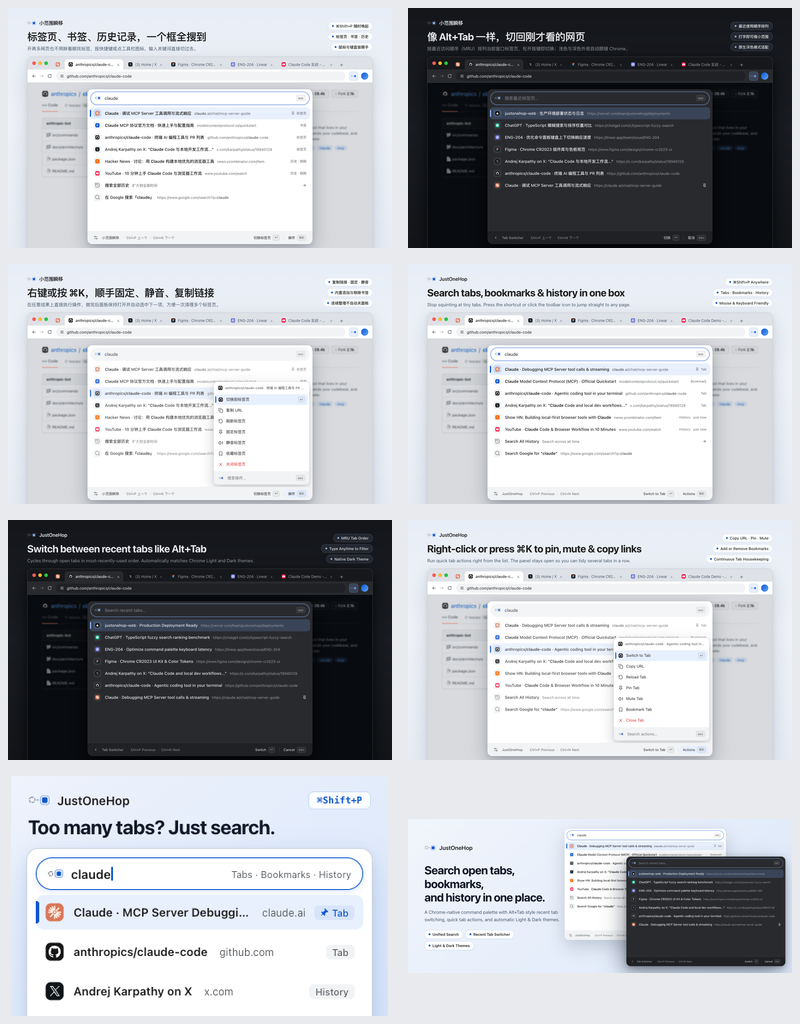
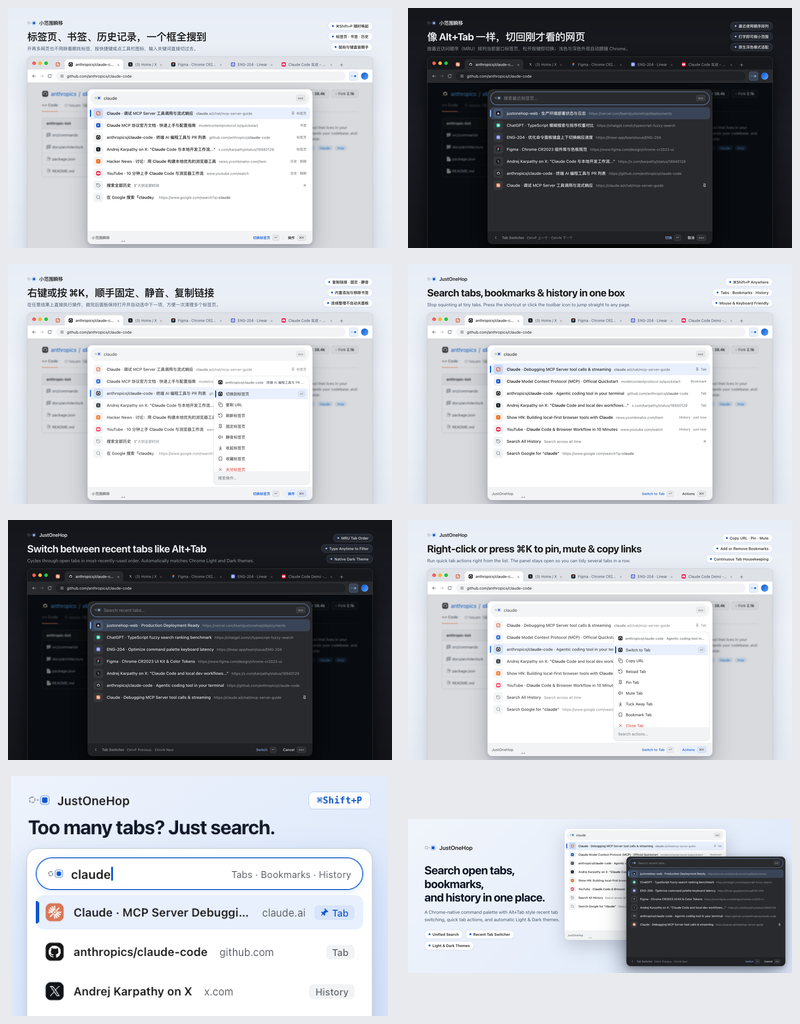
release: freeze and prepare JustOneHop 1.0.0 candidate

diff --git a/docs/ACCEPTANCE.md b/docs/ACCEPTANCE.md
@@ -1,4 +1,4 @@
-# JustOneHop · 小范围瞬移 0.2.1 验收基准与能力状态
+# JustOneHop · 小范围瞬移 1.0.0 验收基准与能力状态
 
 本文档定义小范围瞬移（JustOneHop）当前版本的系统级验收基准、能力验证矩阵与已知受限边界。
 
@@ -9,31 +9,31 @@
 
 ## 1. 核心能力验收状态矩阵
 
-发布版本：`0.2.1`（2026-10-22；GitHub 发布状态以 Release 页面为准） | 扩展 ID：`mbofggnjaoneioopfbpheapgphmkclbo`
+候选版本：`1.0.0`（2026-10-24 功能冻结；未提交商店） | 扩展 ID：`mbofggnjaoneioopfbpheapgphmkclbo`
 
-**0.2.1 候选提交与本地发布包已通过自动化验收，尚未发布**：修复已通过 PR #1 合入 `main`（`05e04db`）。0.2.1 的干净候选提交 `e61d90e` 已通过版本一致性、类型检查、完整单元测试与全量 E2E；Chrome 156.0.8078.4、Vimium 2.4.2、最多两个 worker 下无失败、跳过、未执行或重试，源码与构建产物在验证期间保持一致，完整 E2E 达到五分钟目标。通过范围包含双承载定位、Vimium 兼容与后台生命周期压力。本地 ZIP 直接取自该提交的已验证产物，完整性、版本、源映射剔除及逐文件一致性检查通过；提交与 ZIP 校验和记录在发布说明及 PR #2。下表仍保留日常实机等未覆盖边界。正式发布仍须确定日期、对齐最终 tag 与附件；已发布 `v0.2.0`（`34f57c2`）不包含修复，不能追溯标记通过，不移动旧 tag 或替换旧附件，商店状态仍待后台确认。
+**1.0.0 功能已冻结，发布验证待完成。** 当前候选包含原有统一搜索、标签切换与分组，以及拼音搜索、本地补全、继续搜索、自定义图标、设置与导航改进。下表保留各能力已有证据及实机边界；历史 0.2.1 的全量结果不能替代当前候选的发布验证。正式发布与商店提交尚未执行，历史商店状态未在后台重新确认。
 
 | 功能模块 | 关键验收断言与边界契约 | 验证手段 | 当前验收状态 |
 | :--- | :--- | :--- | :---: |
 | **主搜索 (Omni Palette)** | • 统一检索标签页、书签、历史记录、系统命令、直达网址与 Google 搜索<br>• 字面精确匹配优先于错拼与别名；命令支持中英文别名匹配<br>• 默认回车执行原地打开，次要操作支持新标签页打开<br>• 原生文本拖选保护：拖选结果文字松开绝对不触发点击主动作或写入学习<br>• 搜索结果项展示当前标签页徽标、快捷键提示与类型图标 | 单元测试 + 浏览器自动化 E2E + 真实 Chrome 实测 | **已验证 (Verified)** |
-| **中文拼音检索（0.2.1 后续工作树）** | • 中文全拼、连续首字母、混合 AND 分词与原文高亮<br>• 字面匹配优先，学习不跨级，危险意图保护保留<br>• Tab Switcher 字面优先且同级保留 MRU；设置与帮助复用匹配<br>• 历史保留原生字面查询，拼音补充限定当前范围最近 1000 页，结果最多 100 项并提示上限 | 匹配、排序、高亮、切换器与历史后台单测；主搜索 UI 和真实历史召回定向浏览器用例 | **部分验证**：后续工作树的定向逻辑单测、主搜索鼠键与高亮 UI、真实 Chrome 中文标题历史召回均通过；不追溯至发布候选，超过扫描上限的旧历史拼音召回、多音字所有读法及日常 Chrome 不在通过范围 |
+| **中文拼音检索（1.0.0）** | • 中文全拼、连续首字母、混合 AND 分词与原文高亮<br>• 字面匹配优先，学习不跨级，危险意图保护保留<br>• Tab Switcher 字面优先且同级保留 MRU；设置与帮助复用匹配<br>• 历史保留原生字面查询，拼音补充限定当前范围最近 1000 页，结果最多 100 项并提示上限 | 匹配、排序、高亮、切换器与历史后台单测；主搜索 UI 和真实历史召回定向浏览器用例 | **部分验证**：1.0.0 开发阶段的定向逻辑单测、主搜索鼠键与高亮 UI、真实 Chrome 中文标题历史召回均通过；既往定向结果不替代 1.0.0 全量验证，超过扫描上限的旧历史拼音召回、多音字所有读法及日常 Chrome 不在通过范围 |
 | **本地排序学习** | • 本地使用频次加权排序，容量上限 2000 条<br>• 遵循 14 天半衰期衰减与 90 天未用淘汰规则<br>• 学习权重仅在同相关性等级内微调，不跨类别跃迁<br>• ActionMenu 提供显式「忘记 / Forget」，支持单项清除学习历史 | 单元测试 + 自动化回归 | **已验证 (Verified)** |
-| **本地查询补全（0.2.1 后续工作树）** | • 主搜索按成功查询提供一个浅色前缀提示，接受前不改变查询、结果或 Enter 主动作<br>• Tab／右方向键／Ctrl+E 与底栏鼠标入口等价；Shift+Tab 保留导航<br>• 编辑选区、删除与 IME 组合保护；隐身不提示、不记录；重置清除共用历史<br>• 成功网址与 Google 搜索仅记录补全查询，不提升结果排名 | 查询、导航与存储单测 + 双承载 UI 自动化 + 真实学习／重置与导航定向集成 | **部分验证**：所列用例在后续工作树分批通过，含深浅色窄屏；不追溯至发布候选。实体中文输入法、读屏及日常 Chrome 待实机验收 |
-| **短期继续搜索（0.2.1 后续工作树）** | • 同窗口最近一次符合条件的页面搜索，在 10 分钟内通过空输入／匹配前缀 hint 恢复<br>• 接受前保留首页，复用补全键与底栏入口；删除抑制保留<br>• 会话存储隔离窗口，隐身与非页面动作不记录，忘记／重置清除 | 状态与存储单测 + 双承载 UI、时钟过期与真实学习／重新打开／重置集成 | **部分验证**：所列定向用例通过；浏览器重启清除由会话存储语义与空存储单测覆盖，未执行真实重启或日常 Chrome 实测 |
+| **本地查询补全（1.0.0）** | • 主搜索按成功查询提供一个浅色前缀提示，接受前不改变查询、结果或 Enter 主动作<br>• Tab／右方向键／Ctrl+E 与底栏鼠标入口等价；Shift+Tab 保留导航<br>• 编辑选区、删除与 IME 组合保护；隐身不提示、不记录；重置清除共用历史<br>• 成功网址与 Google 搜索仅记录补全查询，不提升结果排名 | 查询、导航与存储单测 + 双承载 UI 自动化 + 真实学习／重置与导航定向集成 | **部分验证**：所列用例在 1.0.0 开发阶段分批通过，含深浅色窄屏；既往定向结果不替代 1.0.0 全量验证。实体中文输入法、读屏及日常 Chrome 待实机验收 |
+| **短期继续搜索（1.0.0）** | • 同窗口最近一次符合条件的页面搜索，在 10 分钟内通过空输入／匹配前缀 hint 恢复<br>• 接受前保留首页，复用补全键与底栏入口；删除抑制保留<br>• 会话存储隔离窗口，隐身与非页面动作不记录，忘记／重置清除 | 状态与存储单测 + 双承载 UI、时钟过期与真实学习／重新打开／重置集成 | **部分验证**：所列定向用例通过；浏览器重启清除由会话存储语义与空存储单测覆盖，未执行真实重启或日常 Chrome 实测 |
 | **Tab Switcher (MRU 标签切换)** | • 修饰键按住导航、松开直接确认切页；失焦或 Esc 安全取消<br>• 150ms 延时展示浮层，快速按键切页无闪烁感知<br>• 激活搜索胶囊后平滑转为普通列表模式，取消松键自动确认语义<br>• 鼠标悬停仅展示可点击外框，绝对不改变松键确认目标 | 单元测试 + 隔离 Chrome (CDP 键盘事件) | **已验证 (Verified)** |
 | **标签组管理 (Tab Groups)** | • 准确识别当前窗口原生标签组，展示组名、原生颜色徽标与成员数量<br>• 支持展开/折叠、改名（就地单行编辑，保存/取消无损恢复原列表滚动位置）<br>• **安全解散 (Ungroup)**：移除分组容器，完整保留组内所有标签页<br>• **关闭整组 (Close Group)**：必须经过二次确认层，实时核对成员变化，严格保护固定标签页<br>• 组内成员详情二级页：支持页内切换、移出分组与单页关闭 | 单元测试 + 浏览器自动化 E2E | **已验证 (Verified)** |
-| **自动收起 (Tucked Away)** | • 五档时长（1/12 小时、1/3/7 天）即时保存，合法旧值保留<br>• 电脑空闲或 Chrome 连续失焦 30 分钟后允许收起；返回重置等待并停止后续收起<br>• 固定组名「收起来 / Tuck Away」，按窗口复用；跨批次保持初始左右顺序、尊重组内手动重排；逐页保护、用户接管后放弃管理<br>• 找回、撤销与关闭保留页面；部分失败可重试，关闭后仍展示待移回状态<br>• 重启按完整证据恢复归属，歧义需显式确认，撤销批次仅限当前会话 | 状态机／恢复／偏好单测 + 中文窄屏鼠键 UI + 原生 alarm、分组、撤销、设置与实际重启集成 | **部分验证（自动化范围通过）**：覆盖执行前状态变化、连续批次与双窗口同名组隔离、跨批次交错顺序及后台重启保留、手动重排后新基准、用户中途接管、原生命名失败后的归属与撤销、关闭失败反馈、部分失败后的后台／浏览器重启、无干预多窗口恢复及显式恢复确认。失败由受控注入，失焦／系统空闲／到期时间使用受控信号；真实跨应用连续失焦 30 分钟、日常 Chrome 与其他扩展共存仍待实机验收。隔离环境性能采样不构成游戏帧率或资源峰值上限保证，不追溯至发布候选 |
+| **自动收起 (Tucked Away)** | • 五档时长（1/12 小时、1/3/7 天）即时保存，合法旧值保留<br>• 电脑空闲或 Chrome 连续失焦 30 分钟后允许收起；返回重置等待并停止后续收起<br>• 固定组名「收起来 / Tuck Away」，按窗口复用；跨批次保持初始左右顺序、尊重组内手动重排；逐页保护、用户接管后放弃管理<br>• 找回、撤销与关闭保留页面；部分失败可重试，关闭后仍展示待移回状态<br>• 重启按完整证据恢复归属，歧义需显式确认，撤销批次仅限当前会话 | 状态机／恢复／偏好单测 + 中文窄屏鼠键 UI + 原生 alarm、分组、撤销、设置与实际重启集成 | **部分验证（自动化范围通过）**：覆盖执行前状态变化、连续批次与双窗口同名组隔离、跨批次交错顺序及后台重启保留、手动重排后新基准、用户中途接管、原生命名失败后的归属与撤销、关闭失败反馈、部分失败后的后台／浏览器重启、无干预多窗口恢复及显式恢复确认。失败由受控注入，失焦／系统空闲／到期时间使用受控信号；真实跨应用连续失焦 30 分钟、日常 Chrome 与其他扩展共存仍待实机验收。隔离环境性能采样不构成游戏帧率或资源峰值上限保证，既往定向结果不替代 1.0.0 全量验证 |
 | **页面存储管理 (Page Storage)** | • 只读查看当前站点的 Local Storage、Session Storage 与 Cookies<br>• **权限安全**：Cookie 逐站显式请求授权（`optional_host_permissions`），绝不申请全站权限<br>• 单击项仅更新右侧只读预览；鼠标悬停不改变选中与预览<br>• 回车或底栏「复制值」直接写入剪贴板；双击或 ActionMenu 查看详情 | 单元测试 + 本地存储站点验收 + 浏览器自动化 | **已验证 (Verified)** |
-| **跨视图视觉系统（0.2.1 后续工作树）** | • 同角色字体、字重、行高、间距、圆角、边框、焦点、表面、阴影与交互状态共用语义 token；静态检查约束视觉字面量及 token 引用；搜索／列表／底栏保留紧凑组件尺寸，布局及图形绘制参数按角色区分<br>• 授权页与任务页采用共享视觉角色；阅读区、菜单输入和链接具有可见键盘焦点，禁用控件不展示可执行悬停反馈<br>• 普通二级页统一顶部旋转徽章返回与底栏 pet；列表提示列表导航，详情／表单提示控件导航；独立帮助根窗口与 Tab Switcher 保留专用入口；帮助链接支持 Tab／Enter | 全部视图源码走查；主搜索／菜单、历史、设置及子页、帮助、恢复、存储／Cookies、授权、标签组编辑／确认、书签确认和两种切换器承载的定向浏览器交互与截图检查 | **部分验证**：页面家族代表路径通过，含深浅色和窄屏；普通二级页统一导航已通过存储列表／详情、标签组、历史、帮助及恢复核对定向 UI，含查询与焦点恢复、pet 槽跨页对齐、390px 操作可达与新增 Tab 路径；真实扩展已验证隔离浮层设置导航、闭合浮层徽章逐层返回、存储与标签组鼠键路径，以及跨页尺寸和底栏槽位；其余页面路径使用模拟 Chrome API；非所有页面×语言×主题×尺寸的穷举组合，日常 Chrome、读屏及系统原生授权弹窗外观未验，不追溯至发布候选 |
-| **设置分类与持续搜索（0.2.1 后续工作树）** | • 顶部跨分类搜索，外观／快捷键／实验室／帮助侧栏；外观包含语言，帮助直达正文，窄屏使用分类选择器<br>• 设置子页保留框架；顶部旋转徽章按最深活动层返回，底栏统一显示「设置 / Settings」；首页底栏标题点击进入设置；首页与设置的键盘提示跟随小动物完整露出／潜伏，点击或键盘激活切换小动物与提示的显示／隐藏，悬停偷看不展示文案，首页保留列表导航、设置保留控件导航，失焦／后台与减少动态效果时暂停动效；搜索清空恢复子页草稿，返回恢复查询选区与焦点，分类不累积历史<br>• 保持 750 × 516 上限、单色图标与柔蓝选中态；设置及子页与存储预览／详情共用视觉 token；正文动作、字段、代码排版和焦点态按角色统一；自动收起按控件、状态、规则分层，语言、主题、自动收起时长即时保存 | 分类检索与双语单测；双承载 UI、深浅色／390px、鼠键导航、草稿／失败恢复与收起设置；真实扩展偏好／图标同步及设置布局集成 | **部分验证**：分类、检索与草稿恢复、顶部逐层返回、统一底栏标题、首页文字入口、中英文窄屏提示及双承载鼠键路径在后续工作树分批通过；动效及退隐计时的失焦暂停以双承载 UI 层受控焦点信号和时钟验证，覆盖减少动态效果；菜单打开时 pet 不可聚焦、提示隐藏。真实扩展已验证设置键盘链、闭合浮层返回、指南剪贴板及 Chrome 快捷键页面跳转／复用。日常 Chrome、读屏、系统后台挂起与跨标签页任务接续未复验，不追溯至发布候选 |
-| **自定义搜索图标（0.2.1 后续工作树）** | • 单个组合 Emoji 或本地 PNG／JPEG／WebP，等比缩小为静态图标，保留颜色<br>• 预览后显式保存、放弃草稿与恢复默认；本机持久化，跨扩展页面同步<br>• 所有搜索入口共用外观，保持各入口的聚焦、选区、进入搜索或返回语义 | 数据校验、偏好与双语检索单测；编辑器鼠键／失败恢复／390px 窄屏 UI；真实扩展持久化、受限网页浮层与 Tab Switcher 集成 | **部分验证**：所列定向用例分批通过，不追溯至发布候选；独立扩展页面重新加载已验证；设置徽章逐层返回及草稿恢复已通过双承载 UI 与真实闭合浮层返回用例，真实浏览器重启、系统文件选择器、实体 Emoji 输入面板与日常 Chrome 待实机验收 |
-| **任务／详情页顶部（0.2.1 后续工作树）** | • 独立 Ctrl+Tab 指南、收起恢复核对与存储详情使用顶部返回，底栏不重复导航；设置内图标编辑、指南与帮助沿用设置搜索和顶部徽章返回<br>• 标题、预览与字段归正文，普通内容不套搜索胶囊<br>• 返回遵守最深层级并恢复父级上下文，Tab 包含恢复候选列表，正文滚动时顶部与底栏可见 | 定向 UI 自动化：图标编辑深浅色／窄屏／失败重试，指南与恢复菜单逐级返回及选区，嵌入浮层存储详情，Backspace 编辑保护 | **部分验证**：任务／详情布局用例在后续工作树分批通过；设置指南与恢复任务的顶部返回、菜单优先退出、Enter 防护和选区恢复已通过定向 UI，配置指南原生剪贴板与快捷键跳转已通过真实扩展用例。UI 层模拟 Chrome API；真实恢复执行、日常 Chrome 与读屏未复验。不追溯至发布候选 |
-| **操作反馈** | • 设置、复制、标签／书签／标签组操作通过底栏报告真实结果；语言切换后使用新语言确认<br>• 超过 150ms 显示执行中，成功提示约 4 秒，错误持续至关闭或后续处理<br>• 返回父视图与继续输入保留结果，旧异步请求不覆盖新操作<br>• 批量完成、跳过与部分失败报告数量；窄屏优先保留提示空间<br>• 标题与 pet 固定占位，hint 与所有操作结果共享文字槽；pet 显隐不移动反馈，反馈优先于 hint，错误不被提示覆盖 | 状态机、后台结果与国际化单测 + 隔离 Chrome 定向用例（设置成功／失败／延迟保存、主搜索及历史复制、Storage、配置指南、标签组）；双承载共享槽 UI | **部分验证**：所列路径分批通过；后续工作树的双承载 UI 已验证 pet 开关成功仅更新开关与显隐、延迟保存与失败仍提供反馈；pet 显隐保留文字槽位置，主题成功与保存失败共用文字起点和水平中线，成功到期／错误关闭后的 hint 恢复，以及 390px 操作按钮稳定可点击、指南长按钮旁反馈文字仍可见和复制完成后键盘焦点恢复。UI 层模拟存储与时钟；未穷举所有操作异常、快捷切换器失败与真实读屏播报；日常 Chrome 待实机验收 |
+| **跨视图视觉系统（1.0.0）** | • 同角色字体、字重、行高、间距、圆角、边框、焦点、表面、阴影与交互状态共用语义 token；静态检查约束视觉字面量及 token 引用；搜索／列表／底栏保留紧凑组件尺寸，布局及图形绘制参数按角色区分<br>• 授权页与任务页采用共享视觉角色；阅读区、菜单输入和链接具有可见键盘焦点，禁用控件不展示可执行悬停反馈<br>• 普通二级页统一顶部旋转徽章返回与底栏 pet；列表提示列表导航，详情／表单提示控件导航；独立帮助根窗口与 Tab Switcher 保留专用入口；帮助链接支持 Tab／Enter | 全部视图源码走查；主搜索／菜单、历史、设置及子页、帮助、恢复、存储／Cookies、授权、标签组编辑／确认、书签确认和两种切换器承载的定向浏览器交互与截图检查 | **部分验证**：页面家族代表路径通过，含深浅色和窄屏；普通二级页统一导航已通过存储列表／详情、标签组、历史、帮助及恢复核对定向 UI，含查询与焦点恢复、pet 槽跨页对齐、390px 操作可达与新增 Tab 路径；真实扩展已验证隔离浮层设置导航、闭合浮层徽章逐层返回、存储与标签组鼠键路径，以及跨页尺寸和底栏槽位；其余页面路径使用模拟 Chrome API；非所有页面×语言×主题×尺寸的穷举组合，日常 Chrome、读屏及系统原生授权弹窗外观未验，既往定向结果不替代 1.0.0 全量验证 |
+| **设置分类与持续搜索（1.0.0）** | • 顶部跨分类搜索，外观／快捷键／实验室／帮助侧栏；外观包含语言，帮助直达正文，窄屏使用分类选择器<br>• 设置子页保留框架；顶部旋转徽章按最深活动层返回，底栏统一显示「设置 / Settings」；首页底栏标题点击进入设置；首页与设置的键盘提示跟随小动物完整露出／潜伏，点击或键盘激活切换小动物与提示的显示／隐藏，悬停偷看不展示文案，首页保留列表导航、设置保留控件导航，失焦／后台与减少动态效果时暂停动效；搜索清空恢复子页草稿，返回恢复查询选区与焦点，分类不累积历史<br>• 保持 750 × 516 上限、单色图标与柔蓝选中态；设置及子页与存储预览／详情共用视觉 token；正文动作、字段、代码排版和焦点态按角色统一；自动收起按控件、状态、规则分层，语言、主题、自动收起时长即时保存 | 分类检索与双语单测；双承载 UI、深浅色／390px、鼠键导航、草稿／失败恢复与收起设置；真实扩展偏好／图标同步及设置布局集成 | **部分验证**：分类、检索与草稿恢复、顶部逐层返回、统一底栏标题、首页文字入口、中英文窄屏提示及双承载鼠键路径在 1.0.0 开发阶段分批通过；动效及退隐计时的失焦暂停以双承载 UI 层受控焦点信号和时钟验证，覆盖减少动态效果；菜单打开时 pet 不可聚焦、提示隐藏。真实扩展已验证设置键盘链、闭合浮层返回、指南剪贴板及 Chrome 快捷键页面跳转／复用。日常 Chrome、读屏、系统后台挂起与跨标签页任务接续未复验，既往定向结果不替代 1.0.0 全量验证 |
+| **自定义搜索图标（1.0.0）** | • 单个组合 Emoji 或本地 PNG／JPEG／WebP，等比缩小为静态图标，保留颜色<br>• 预览后显式保存、放弃草稿与恢复默认；本机持久化，跨扩展页面同步<br>• 所有搜索入口共用外观，保持各入口的聚焦、选区、进入搜索或返回语义 | 数据校验、偏好与双语检索单测；编辑器鼠键／失败恢复／390px 窄屏 UI；真实扩展持久化、受限网页浮层与 Tab Switcher 集成 | **部分验证**：所列定向用例分批通过，既往定向结果不替代 1.0.0 全量验证；独立扩展页面重新加载已验证；设置徽章逐层返回及草稿恢复已通过双承载 UI 与真实闭合浮层返回用例，真实浏览器重启、系统文件选择器、实体 Emoji 输入面板与日常 Chrome 待实机验收 |
+| **任务／详情页顶部（1.0.0）** | • 独立 Ctrl+Tab 指南、收起恢复核对与存储详情使用顶部返回，底栏不重复导航；设置内图标编辑、指南与帮助沿用设置搜索和顶部徽章返回<br>• 标题、预览与字段归正文，普通内容不套搜索胶囊<br>• 返回遵守最深层级并恢复父级上下文，Tab 包含恢复候选列表，正文滚动时顶部与底栏可见 | 定向 UI 自动化：图标编辑深浅色／窄屏／失败重试，指南与恢复菜单逐级返回及选区，嵌入浮层存储详情，Backspace 编辑保护 | **部分验证**：任务／详情布局用例在 1.0.0 开发阶段分批通过；设置指南与恢复任务的顶部返回、菜单优先退出、Enter 防护和选区恢复已通过定向 UI，配置指南原生剪贴板与快捷键跳转已通过真实扩展用例。UI 层模拟 Chrome API；真实恢复执行、日常 Chrome 与读屏未复验。既往定向结果不替代 1.0.0 全量验证 |
+| **操作反馈** | • 设置、复制、标签／书签／标签组操作通过底栏报告真实结果；语言切换后使用新语言确认<br>• 超过 150ms 显示执行中，成功提示约 4 秒，错误持续至关闭或后续处理<br>• 返回父视图与继续输入保留结果，旧异步请求不覆盖新操作<br>• 批量完成、跳过与部分失败报告数量；窄屏优先保留提示空间<br>• 标题与 pet 固定占位，hint 与所有操作结果共享文字槽；pet 显隐不移动反馈，反馈优先于 hint，错误不被提示覆盖 | 状态机、后台结果与国际化单测 + 隔离 Chrome 定向用例（设置成功／失败／延迟保存、主搜索及历史复制、Storage、配置指南、标签组）；双承载共享槽 UI | **部分验证**：所列路径分批通过；1.0.0 开发阶段的双承载 UI 已验证 pet 开关成功仅更新开关与显隐、延迟保存与失败仍提供反馈；pet 显隐保留文字槽位置，主题成功与保存失败共用文字起点和水平中线，成功到期／错误关闭后的 hint 恢复，以及 390px 操作按钮稳定可点击、指南长按钮旁反馈文字仍可见和复制完成后键盘焦点恢复。UI 层模拟存储与时钟；未穷举所有操作异常、快捷切换器失败与真实读屏播报；日常 Chrome 待实机验收 |
 | **双承载与定位** | • **普通网页**：Top Layer Shadow DOM + 空白沙箱 iframe，相对页面视口水平居中、偏上，隔绝宿主样式与键盘监听<br>• **Chrome 原生页**：无工具栏紧凑独立窗口，相对来源浏览器外框水平居中、偏上<br>• 统一内容上限：750 × 516 CSS 像素，适配来源视口与缩放；两承载不要求屏幕坐标重合 | 浏览器自动化 (闭合 Shadow DOM + iframe) + 原生窗口测试 | **已验证（所列范围）**：Chrome 156 横向／竖向标签栏、三档缩放、两类原生面板尺寸与定位；Vimium 2.4.2 闭合浮层键盘路径 |
 | **焦点控制与返回路由** | • 失去焦点感知：Chrome 地址栏持有焦点时提示「点击搜索框开始输入」<br>• 恢复焦点：Logo 按钮 (`SearchFocusButton`) 与无焦点状态下按 Tab 快速恢复输入框焦点<br>• `NavigationRoot` 统管 Esc；`BackLayer` 栈式调度逐级返回；返回父级完整恢复原 Query、光标与滚动位置<br>• 左边缘向右横滑手势逐级返回 (Swipe Back) | 浏览器自动化 + 手工交互实测 | **已验证 (Verified)** |
 | **跨应用保留命令面板** | • 网页浮层收到页面隐藏信号后保留搜索与设置视图，实际切走来源标签页后结束<br>• 独立窗口在 Chrome 无焦点及返回来源窗口时保留、不抢焦点；来源切换、导航或移出窗口后结束<br>• 快捷键 Tab Switcher 仍遵循失焦取消 | 生命周期单测 + 隔离 Chrome 定向用例（网页隐藏为注入信号；原生窗口验证 Esc／重复启动／Chrome 内焦点退出） | **部分验证**：自动化通过；真实跨应用、桌面与遮挡组合待实机验收 |
 | **使用帮助与配置指南** | • 内置使用帮助随包只读打包，支持正文全文搜索与关键词高亮<br>• Ctrl+Tab 配置指南展示只读配置脚本，一键复制引导用户在 Chrome 控制台显式粘贴执行 | 单元测试 + 浏览器自动化 | **已验证 (Verified)** |
-| **商店与合规发布** | • 无用户账号、无后端服务、无遥测上报<br>• 候选工作树已通过完整自动化验证；已发布 `0.2.0` 仍为旧构建，尚未提交商店<br>• 修复须以新版本对齐最终提交与发布包；历史 `0.1.0` 提审结果未重新确认 | GitHub Release 与发布验证；商店状态待后台确认 | **待发布对齐**：候选构建自动化通过，旧发布包不追溯通过 |
+| **商店与合规发布** | • 无用户账号、无后端服务、无遥测上报<br>• 1.0.0 已冻结功能，当前候选的完整自动化验证待完成；尚未提交商店<br>• 发布须对齐最终提交与已验证发布包；历史 `0.1.0` 提审结果未重新确认 | GitHub Release 与发布验证；商店状态待后台确认 | **准备中**：版本、商店资料与包的验证待完成；不追溯修改历史构建结论 |
 
 ---
 
@@ -73,8 +73,8 @@
    - 两种承载保持尺寸策略与交互一致，不要求屏幕坐标精确重合；侧栏展开时位置不同属于已接受的产品行为。固定显示器位置不属于当前验收目标。
    - 几何自动化覆盖横向／竖向标签栏及 100%、125%、80% 缩放；不同显示器与其他侧栏尺寸不能由这些用例推断通过。
 2. **浏览器自动化稳定性**：
-   - 隔离 Chrome 曾在启动持久上下文及关闭上下文阶段超过 30 秒；前者发生在用例主体开始前，后者可在主体完成后仍导致失败。当前候选提交的双 worker 全量验证已通过，未出现启动或收尾超时；历史超时根因未确定，单轮全量通过不证明长期稳定性。
-   - 后台生命周期压力场景的 Chrome 156 SIGTRAP 已通过匹配二进制与同版本源码定位到 `NetworkHandler::GetResponseBody()` 的 `CHECK(storage_partition_)`（[Chromium 156.0.8078.4](https://chromium.googlesource.com/chromium/src/+/refs/tags/156.0.8078.4/content/browser/devtools/protocol/network_handler.cc#3741)）。Playwright trace 会异步读取响应正文；压力用例现独立隔离其 DOM／网络快照，保留操作 trace、生命周期事件和脚本就绪等待。协议检查确认不再调用该响应正文接口；当前候选构建的完整套件中，该用例完成 100 次停止与成功唤醒、20 次重载，无脚本加载错误或异常断连。存储分区变空的具体时序仍未确定；这属于测试采集路径规避，完整套件通过不代表 Chrome 缺陷已修复。不得以提高超时或减少压力次数替代验证。
+   - 隔离 Chrome 曾在启动持久上下文及关闭上下文阶段超过 30 秒；前者发生在用例主体开始前，后者可在主体完成后仍导致失败。历史 0.2.1 候选提交的双 worker 全量验证已通过，未出现启动或收尾超时；历史超时根因未确定，单轮全量通过不证明长期稳定性。
+   - 后台生命周期压力场景的 Chrome 156 SIGTRAP 已通过匹配二进制与同版本源码定位到 `NetworkHandler::GetResponseBody()` 的 `CHECK(storage_partition_)`（[Chromium 156.0.8078.4](https://chromium.googlesource.com/chromium/src/+/refs/tags/156.0.8078.4/content/browser/devtools/protocol/network_handler.cc#3741)）。Playwright trace 会异步读取响应正文；压力用例现独立隔离其 DOM／网络快照，保留操作 trace、生命周期事件和脚本就绪等待。协议检查确认不再调用该响应正文接口；历史 0.2.1 候选构建的完整套件中，该用例完成 100 次停止与成功唤醒、20 次重载，无脚本加载错误或异常断连。存储分区变空的具体时序仍未确定；这属于测试采集路径规避，完整套件通过不代表 Chrome 缺陷已修复。不得以提高超时或减少压力次数替代验证。
 3. **外部删除来源标签页直接结束会话**：
    - 若用户在小范围瞬移面板处于打开状态时，通过外部快捷键或鼠标关闭了唤起该面板的来源标签页，面板会话将立即安全退出，不进行跨标签页迁移接续。
 4. **自动化测试无法完全替代 CDP 实体修饰键松开**：

diff --git a/docs/STORE-LISTING.md b/docs/STORE-LISTING.md
@@ -11,7 +11,7 @@
 | 字段 | 填写内容 | 说明 |
 | --- | --- | --- |
 | **扩展名称 (Name)** | `JustOneHop`（默认语言） / `小范围瞬移`（中文） | 英文首字母大写；中文名统一 |
-| **适用版本** | `0.1.0` | 对应 `manifest.json` |
+| **适用版本** | `1.0.0` | 功能冻结，准备提审包；尚未提交商店 |
 | **扩展 ID** | `mbofggnjaoneioopfbpheapgphmkclbo` | 商店官方分配唯一标识 |
 | **开发者账号** | `lyyourc` | 个人开发者 |
 | **支持与隐私邮箱** | `liangyida42@gmail.com` | 已验证联系邮箱 |
@@ -30,7 +30,7 @@
 JustOneHop
 ```
 
-### Short Description (Paste-ready, 128 characters)
+### Short Description (Paste-ready, within 128 characters)
 ```text
 A human-first command palette for Chrome. Search tabs, bookmarks, and history, and run actions naturally with keyboard or mouse.
 ```
@@ -42,22 +42,24 @@ When you have dozens of tabs open, finding the page you were just looking at sho
 Click the toolbar icon or press Command+Shift+P on macOS (Ctrl+Shift+P on Windows/Linux). Everything works naturally with your mouse, keyboard shortcuts, or both—without memorizing cryptic prefixes or command modes.
 
 Key features:
+• Chinese pinyin search: Find Chinese titles with full pinyin or initials, including mixed Chinese/English queries. History pinyin matching covers the latest 1,000 pages in your selected time range; use literal text for older pages.
+• Pick up your search: Complete queries from successful local searches using Tab, the right arrow, or the footer button. Continue the latest qualifying page search in the same window within 10 minutes.
 • Search tabs, bookmarks & history together: Find open tabs, saved bookmarks, and recent 7-day history from a single search bar, or expand to Search All History with one click.
 • Switch recent tabs like Alt+Tab: Open the built-in Tab Switcher to cycle through open tabs in most-recently-used (MRU) order. Hold and release the shortcut to jump, or type anytime to filter by title or domain.
 • Tidy tabs without losing your place: Right-click a tab result or press Command+K to copy its URL, pin or unpin, mute, reload, add or remove a bookmark, or close the tab. Most organizing actions keep the panel open and preserve the selected item; when a result is removed, an adjacent item is smoothly selected.
 • Manage Chrome Tab Groups: Search, inspect, expand/collapse, rename, ungroup, or close entire native tab groups with clear confirmation dialogs.
-• Tab Tucking (Declutter without closing): Slide idle tabs into a neat, native collapsed group (Tucked · N) without closing them or losing form states. Easily untuck individual tabs or undo the whole batch.
+• Tuck tabs away: Move tabs into the native collapsed group “Tuck Away” without closing them. Find a page to bring it back, or undo the latest batch. Optional Auto Tuck in Settings → Experimental runs when the computer is idle or Chrome has remained unfocused for 30 minutes.
 • Everyday commands in plain words: Type “new tab”, “reopen closed tab”, “downloads”, “extensions”, “passwords”, or “dark mode” to run browser actions directly—no special syntax required.
-• Chrome-native Light & Dark themes: Built around Chrome's CR2023 design language, automatically matching your system appearance.
+• Make it your own: Choose Light, Dark, or System appearance, and set an Emoji or local image as your search icon. Settings are searchable by category.
 • Read-only site storage viewer: Search “local storage”, “session storage”, or “cookies” to inspect keys and formatted JSON for the current page without opening heavy DevTools. Cookie inspection requests host access strictly per site.
 
 Local & private by design:
 • Tab, bookmark, and history searches run locally on your device—no account, developer server, telemetry, or tracking. When you explicitly choose Google Search or open a URL, your browser connects to that website directly.
-• Preferences and search ranking records stay on your device and are never synced to the cloud. Ranking records may include search terms and full URLs; you can click the × icon on any result or use “Reset search ranking” in Settings to clear them at any time.
+• Preferences, custom icons, and search records stay on your device and are never synced to the cloud. Ranking and completion share up to 2,000 records, which may include search terms and full URLs. Use a learned result’s forget control or “Reset search ranking” in Settings; reset also clears completion history and Continue Search hints.
 • Site storage values are read only in memory while viewing; copied values are placed on your system clipboard. See the linked Privacy Policy for full details.
 
 Usage notes:
-Regular webpages use a centered in-page overlay; restricted pages where Chrome blocks content scripts (such as chrome:// pages or the Chrome Web Store) automatically open in a lightweight companion window. Shortcuts can be customized in chrome://extensions/shortcuts; setting up Ctrl+Tab takes just 10 seconds via our built-in guided helper.
+Regular webpages use a centered in-page overlay; restricted pages where Chrome blocks content scripts (such as chrome:// pages or the Chrome Web Store) automatically open in a lightweight companion window. Shortcuts can be customized in chrome://extensions/shortcuts; the optional built-in Ctrl+Tab guide explains the extra setup needed for that shortcut.
 ```
 
 ---
@@ -81,22 +83,24 @@ Regular webpages use a centered in-page overlay; restricted pages where Chrome b
 点击工具栏图标，或按 ⌘Shift+P（Windows/Linux 为 Ctrl+Shift+P）即可打开。无论是直接用鼠标点选、习惯键盘快捷键，还是两者混用都很顺手，不需要背诵任何搜索前缀或命令语法。
 
 核心功能：
+• 中文拼音检索：支持全拼、首字母及中英文混合搜索。历史拼音匹配覆盖所选时间范围最近 1000 个页面，更早的页面可用中文原文查找。
+• 接着上次搜：根据本机成功搜索提供查询补全，支持 Tab、右方向键或底栏按钮接受。同窗口 10 分钟内，还可继续最近一次符合条件的页面搜索。
 • 统一搜索标签页、书签与历史记录：同时检索当前窗口已打开的标签页、收藏夹书签与最近 7 天浏览历史，也可一键展开搜索全部历史。
 • 像 Alt+Tab 一样切换最近标签页：内置最近标签切换器（Tab Switcher），按最近访问顺序（MRU）排列标签页。支持按住快捷键松手即切，或直接打字按标题、域名筛选。
-• 右键或按 ⌘K 连续整理标签页：在标签页结果上打开操作菜单，即可复制链接、固定／取消固定、静音、刷新、添加或移除书签、关闭标签页。整理操作后面板保持打开并自动选中相邻项，方便连续整理多个页面。
+• 右键或按 ⌘K 连续整理标签页：在标签页结果上打开操作菜单，即可复制链接、固定／取消固定、静音、刷新、添加或移除书签、关闭标签页。整理操作后面板保持打开并保留所选项；移除结果后选择相邻项，方便连续整理多个页面。
 • 原生标签组管理：直接搜索组名进入成员列表，支持展开／折叠、重命名、解散分组（保留所有页面）或安全关闭整个分组。
-• 智能标签收起 (Tab Tucking)：把暂时不看的页面移入 Chrome 原生折叠组（如“已收起 · 4”），不关闭页面也不丢表单，随时一键搜出恢复或撤销整批收起。
+• 标签收起：把暂时不看的页面移入 Chrome 原生折叠组「收起来」，不关闭页面。搜索页面即可找回，也可撤销最近一批收起。在设置 → 实验室开启自动收起后，电脑空闲或 Chrome 连续失焦 30 分钟时可执行整理。
 • 日常中英文口语直达命令：直接输入“新建标签页”“恢复关闭的标签页”“历史记录”“下载”“扩展”“深色模式”或“new tab”“downloads”“settings”即可执行，无需输入模式前缀。
-• Chrome 原生深浅色外观：界面遵循 Chrome CR2023 设计语言，浅色与深色模式自动跟随系统或手动切换。
+• 自定义外观：深浅色可跟随系统或手动切换，支持用 Emoji 或本地图片设置搜索图标；设置按分类组织，并可直接搜索。
 • 只读网站存储查看器：输入“local storage”“session storage”或“cookie”，免开 F12 DevTools，直接在双栏视图中格式化查看并复制当前网页的存储键值；读取 Cookie 时仅按当前站点申请授权。
 
 隐私与本地运行：
 • 标签页、书签和历史检索全部在本机完成，无需注册账号，无开发者后端或遥测，绝不向开发者上传浏览数据。主动执行 Google 搜索或打开网址时，浏览器会直接访问相应网站。
-• 偏好设置与搜索排序记录仅保存在本机，不通过云端同步。受到本地学习前移的结果会展示小钟表图标，点击 × 或按 Shift+Backspace 即可随时遗忘；也可在设置中使用“重置搜索排序”一键清除。
+• 偏好、自定义图标和搜索记录仅保存在本机，不通过云端同步。排序与补全共用最多 2000 条记录，可能包含搜索词和完整网址。可通过已学习结果的遗忘入口或 Shift+Backspace 清除对应记录；设置中的「重置搜索排序」同时清除补全历史与继续搜索提示。
 • 网站存储查看器中的内容仅在当前面板内存中只读展示，不写入持久存储；你主动复制的内容会进入系统剪贴板。完整说明请参阅隐私政策链接。
 
 使用说明：
-普通网页以居中浮层展示；在 Chrome 内置页、应用商店等限制脚本注入的页面会自动切换为独立窗口。地址栏持有焦点时，点击搜索框即可开始输入。快捷键可在 Chrome 扩展快捷键设置中修改；Ctrl+Tab 切换可通过内置引导 10 秒快速配置。
+普通网页以居中浮层展示；在 Chrome 内置页、应用商店等限制脚本注入的页面会自动切换为独立窗口。地址栏持有焦点时，点击搜索框即可开始输入。快捷键可在 Chrome 扩展快捷键设置中修改；如需使用 Ctrl+Tab，可按内置指南完成额外配置。
 ```
 
 ---
@@ -127,7 +131,7 @@ Provide a local command palette for finding and acting on browser content: searc
 | `bookmarks` | Search the user's bookmark titles, URLs, and folders, and create or remove native bookmarks when the user requests those actions. |
 | `history` | Query recent history and user-requested full-history searches to find pages. The extension does not persist a copy of the entire history database or modify it. Successful selections may contribute a search term and URL to local ranking records. |
 | `sessions` | Restore the most recently closed tab or window when requested by the user. |
-| `storage` | Store preferences, search ranking records, and tuck timing/recovery records locally, and keep temporary panel and tuck state in session storage. No chrome.storage.sync is used. |
+| `storage` | Store preferences (including a custom search icon), local ranking and query-completion records, and tuck timing/recovery records. Session storage holds temporary panel/tuck state and a per-window Continue Search query, target, and timestamp. No chrome.storage.sync is used. |
 | `favicon` | Display site icons using Chrome's native favicon interface without any third-party icon service. |
 | `tabGroups` | Display and manage native Chrome tab groups and move tabs into or out of collapsed groups for manual tucking and optional Auto Tuck. |
 | `alarms` | Schedule Auto Tuck scans and cleanup retries, and periodically synchronize the toolbar icon with the system color scheme. |
@@ -177,19 +181,22 @@ Open 3-4 ordinary HTTPS websites in a Chrome window. Click the JustOneHop toolba
 Bookmark one of your test pages. Summon the palette again and search for it to see the native bookmark result. Type "history" to test the 7-day and full-history search capabilities.
 
 3. Continuous Tab Actions:
-In the search results, right-click any tab or press Command+K (Ctrl+K) to open the action menu. Try pinning/unpinning, muting, or copying the clean URL. Notice that the palette remains open and automatically selects the adjacent tab so multiple tabs can be organized consecutively.
+In the search results, right-click any tab or press Command+K (Ctrl+K) to open the action menu. Try pinning/unpinning, muting, or copying the clean URL. The palette keeps the selected item for organizing actions; removing a result selects an adjacent item so you can continue.
 
 4. Tab Switcher (Alt+Tab style):
 Search for "tab switcher" in the palette, or use the default shortcut (Control+J on macOS / Ctrl+, on Windows/Linux). Hold the modifier key, tap through recent tabs, and release the modifier to switch. Alternatively, click the search bar or press Command+F to filter tabs on the fly.
 
 5. Tab Tucking:
-With an unpinned tab active, summon the palette and search for "tuck tab". The tab will be safely moved into a collapsed native Chrome Tab Group ("Tucked · 1") without closing the page. Type "undo tuck" to restore it.
+With an unpinned tab active, summon the palette and search for "tuck tab". The tab will be safely moved into a collapsed native Chrome Tab Group ("Tuck Away") without closing the page. Type "undo tuck" to restore it.
 
 6. Site Storage & Cookie Inspector:
 On an ordinary HTTPS website, summon the palette and search for "local storage", "session storage", or "cookie". The viewer renders keys on the left and formatted JSON values on the right. Press Enter to copy the raw value. If cookie access is missing, click the explicit grant button to trigger Chrome's host permission dialog. All data is read-only and processed solely in memory.
 
 7. Standalone Window Fallback:
-Navigate to a restricted page such as chrome://extensions or chrome://settings and summon the palette. JustOneHop automatically opens in a lightweight companion window centered in the viewport, ensuring uninterrupted service.
+Navigate to a restricted page such as chrome://extensions or chrome://settings and summon the palette. JustOneHop automatically opens in a lightweight companion window positioned relative to the source browser window. Ordinary webpage overlays are positioned relative to the page viewport.
+
+8. Local Search Hints and Appearance:
+After successfully opening results from a query, type a prefix of that query and accept the local hint with Tab or the footer button. A qualifying page search with at least two distinct available pages can also be continued within 10 minutes in the same window. Reset search ranking in Settings clears these records. Search Settings for the search icon editor, choose an Emoji or local PNG/JPEG/WebP, preview and save; Restore Default removes the custom icon. Nothing is uploaded.
 
 Support & review contact: liangyida42@gmail.com (developer: lyyourc).
 ```
@@ -200,7 +207,9 @@ Support & review contact: liangyida42@gmail.com (developer: lyyourc).
 
 ### 版本与发布状态
 
-`package.json`、`package-lock.json`（顶层及根包）和 `public/manifest.json` 使用相同的三段数字版本，例如 `0.2.0`；Git tag 与 GitHub Release 使用 `v0.2.0`，附件名为 `justonehop-0.2.0.zip`。新增功能递增次版本，修复递增补丁版本；上传版本须高于商店后台已有版本。
+**当前阶段：1.0.0 功能冻结与本地发布准备（2026-10-24）。** 仅调整发布元数据、事实性披露、商店素材和验证所需修复；新功能移至后续版本。本次不创建远端 Release、不上传或提交商店。CHANGELOG 保留 `Unreleased`；正式发布另行确定日期。商店线上／审核中／草稿版本尚未核对，不能将本地准备状态当作已上线。
+
+`package.json`、`package-lock.json`（顶层及根包）和 `public/manifest.json` 使用相同的三段数字版本，例如 `1.0.0`；Git tag 与 GitHub Release 使用 `v1.0.0`，附件名为 `justonehop-1.0.0.zip`。新增功能递增次版本，修复递增补丁版本；上传版本须高于商店后台已有版本。
 
 [CHANGELOG](../CHANGELOG.md) 按版本维护用户可见变化。准备中的版本标记 `Unreleased`；确定发布时改为 GitHub 发布日期（`YYYY-MM-DD`）。GitHub 发布与商店审核是独立状态：GitHub Release 可先提供下载，说明中明确商店尚未提交、审核中或已上线；只有后台和公开页确认后才标记商店上线。审核期间商店仍显示上一版不属于版本错误。
 
@@ -240,31 +249,31 @@ npm run package:store
 
 ### Git tag 与 GitHub Release
 
-以下以 `0.2.0` 为例，仅在发布提交已审阅、工作区干净且验证完成后执行：
+以下以 `1.0.0` 为例，仅在发布提交已审阅、工作区干净且验证完成后执行：
 
 ```sh
-npm run release:check -- v0.2.0
+npm run release:check -- v1.0.0
 npx tsx scripts/package-store.ts
-unzip -p releases/justonehop-0.2.0.zip manifest.json
-shasum -a 256 releases/justonehop-0.2.0.zip
-git tag -a v0.2.0 -m "JustOneHop 0.2.0"
+unzip -p releases/justonehop-1.0.0.zip manifest.json
+shasum -a 256 releases/justonehop-1.0.0.zip
+git tag -a v1.0.0 -m "JustOneHop 1.0.0"
 git push origin HEAD
-git push origin v0.2.0
+git push origin v1.0.0
 ```
 
 tag 必须指向与已验证发布产物对应的源码提交；若与受测 commit 不同，须已完成测试指南规定的差异与产物等价核对。已推送 tag 不移动；发布后修订递增版本。等待该提交／tag 的 Validate CI 通过后创建 Release，不额外触发全量 E2E。
 
-准备发布说明文件（例如系统临时目录中的 `justonehop-0.2.0-notes.md`），包含 CHANGELOG 的本版本内容、源码 commit、ZIP SHA-256、实际验证范围和商店状态。先创建草稿检查附件与说明，再发布：
+准备发布说明文件（例如系统临时目录中的 `justonehop-1.0.0-notes.md`），包含 CHANGELOG 的本版本内容、源码 commit、ZIP SHA-256、实际验证范围和商店状态。先创建草稿检查附件与说明，再发布：
 
 ```sh
-gh release create v0.2.0 releases/justonehop-0.2.0.zip \
-  --verify-tag --draft --title "JustOneHop 0.2.0" \
-  --notes-file /tmp/justonehop-0.2.0-notes.md
-gh release view v0.2.0
-gh release edit v0.2.0 --draft=false
+gh release create v1.0.0 releases/justonehop-1.0.0.zip \
+  --verify-tag --draft --title "JustOneHop 1.0.0" \
+  --notes-file /tmp/justonehop-1.0.0-notes.md
+gh release view v1.0.0
+gh release edit v1.0.0 --draft=false
 ```
 
-GitHub 自动生成的源码归档不是商店上传包；使用附加的 `justonehop-0.2.0.zip`。这些命令是发布步骤，不由本地打包命令自动执行。
+GitHub 自动生成的源码归档不是商店上传包；使用附加的 `justonehop-1.0.0.zip`。这些命令是发布步骤，不由本地打包命令自动执行。
 
 ### 商店提交与上线确认
 

diff --git a/docs/PRIVACY.en.md b/docs/PRIVACY.en.md
@@ -5,7 +5,7 @@
 - Product: JustOneHop (小范围瞬移), a Chrome extension
 - Developer: lyyourc
 - Privacy contact: [liangyida42@gmail.com](mailto:liangyida42@gmail.com)
-- Effective date: October 19, 2026 (2026-10-19)
+- Effective date: October 24, 2026 (2026-10-24)
 
 ## 1. Scope
 
@@ -31,10 +31,11 @@ This policy covers the extension itself. Websites you choose to visit, Google Se
 
 The extension uses Chrome's local extension storage and session storage. It does not use `chrome.storage.sync` to synchronize this data across devices.
 
-- **Preferences:** Language, theme, and the Auto Tuck setting remain locally until changed or extension data is removed.
-- **Search ranking records:** Some successful selections store a normalized search term, target identifier, weight, and last-used time. Targets may include a full webpage URL, including query parameters and fragments, a bookmark ID, or a command ID. Home-screen selections may also be recorded. These records are used only for local ranking, with a maximum of 500 valid records. Records older than 90 days no longer affect ranking; subsequent recording or forgetting operations clean up old stored records. There is no background job guaranteeing physical deletion on day 90. Reading history or a failed open does not create a selection record. Direct URL navigation and Google searches do not write these learning records.
+- **Preferences:** Language, theme, Auto Tuck settings, and footer-pet visibility remain locally until changed or extension data is removed. A custom search icon stores the chosen Emoji or a locally resized static PNG. Images are processed on-device; the original file and its path are not stored by the extension or uploaded. Restoring the default removes the saved custom icon.
+- **Search ranking and query-completion records:** Some successful selections store a normalized search term, its display spelling when different, target identifier, weight, and last-used time. Targets may include a full webpage URL, including query parameters and fragments, a bookmark ID, or a command ID. Home-screen selections may also be recorded. These records support local ranking and query completion, sharing a maximum of 2,000 valid records. Records older than 90 days no longer affect ranking or completion; subsequent recording or forgetting operations clean up old stored records. There is no background job guaranteeing physical deletion on day 90. Reading history or a failed open does not create a selection record. Successful direct URL navigation and Google searches may store the entered query for completion, without boosting search-result rankings or storing the destination as a ranking target.
 - **Auto Tuck timing:** While Auto Tuck is enabled, full URLs and last-used times for eligible tabs are stored locally. Turning Auto Tuck off clears timing records once cleanup completes.
 - **Group recovery records:** Manual or automatic tucking stores group names, colors, full member URLs, and the full URLs of other HTTP/HTTPS tabs in the same window to verify group ownership after a browser restart. Unresolved records may be retained without a fixed expiry. Turning Auto Tuck off does not guarantee removal of every unresolved recovery record.
+- **Continue Search:** A successful qualifying page search stores its query, selected target (which may include a full URL or bookmark ID), and timestamp in Chrome session storage, indexed by browser window. Only the latest qualifying query per window is offered, for 10 minutes. Expired records are ignored and cleaned up on subsequent writes; browser restart clears session storage. Reset removes all continuation records, and forgetting a matching query/target removes the corresponding record.
 - **Session state:** Panel source information, tab/window/group identifiers, switching state, and tuck undo information support the current runtime session. Some stays in memory and some uses Chrome session storage. Closing a panel removes its corresponding panel session record.
 - **Website storage viewer contents:** Retrieved names, values, and attributes are processed in the current viewer's memory, are not written to the extension's persistent storage, and are not sent to the developer. After the viewer closes, the extension no longer retains its copy of that viewer's contents. If you copy a value, it enters the system clipboard. Closing the panel does not clear the clipboard; the operating system or clipboard tools may retain copies.
 
@@ -58,12 +59,12 @@ The extension uses Chrome's favicon interface, not a third-party icon service. E
 
 ## 6. Your controls
 
-- Use Reset search ranking in settings to clear learned ranking records, or the ranking explanation control on a result to forget the relevant preference. There is currently no separate switch to disable learning. Later eligible successful actions may create new records.
+- Use Reset search ranking in settings to clear the shared ranking/completion history and Continue Search records, or the forget control on a learned result to remove the relevant preference and matching continuation record. There is currently no separate switch to disable learning. Later eligible successful actions may create new records.
 - Turn off Auto Tuck to stop automatic tucking and trigger its cleanup. For a recovery record awaiting confirmation, use the action to stop recovering that record. This removes the record without closing pages or deleting the native group.
 - Revoke website access in Chrome's extension settings. Resetting search ranking does not revoke permissions or clear preferences or all group recovery records.
 - Removing the extension from Chrome removes that installation's local extension storage. There is no additional server copy held by the developer to request deletion of. Uninstalling does not reverse actions already taken on Chrome bookmarks, tabs, history, or groups, clear the system clipboard, or delete copies retained by other tools.
 
-If you allow the extension in incognito windows, it does not query ordinary browsing history or record search selection learning in those windows. Tucking excludes incognito tabs. Other features you actively use there still process the data needed to perform the requested action.
+If you allow the extension in incognito windows, it does not query ordinary browsing history, record search selection learning or completion queries, or offer completion and Continue Search hints in those windows. Tucking excludes incognito tabs. Other features you actively use there still process the data needed to perform the requested action.
 
 ## 7. Contact and policy updates
 

diff --git a/docs/PRIVACY.md b/docs/PRIVACY.md
@@ -5,7 +5,7 @@
 - 产品：小范围瞬移（JustOneHop）Chrome 扩展
 - 开发者：lyyourc
 - 隐私联系邮箱：[liangyida42@gmail.com](mailto:liangyida42@gmail.com)
-- 生效日期：2026-10-19
+- 生效日期：2026-10-24
 
 ## 1. 适用范围
 
@@ -31,10 +31,11 @@
 
 扩展使用 Chrome 的本地扩展存储和会话存储，不使用 `chrome.storage.sync` 同步这些数据到其他设备。
 
-- **设置**：语言、主题和自动收起开关保存在本地，直到被修改或扩展数据被清除。
-- **搜索排序记录**：部分成功执行的选择会保存规范化搜索词、目标标识、权重和最后使用时间。目标可能包含完整网页 URL（包括查询参数和片段）、书签 ID 或命令 ID；首页选择也可能形成记录。记录只用于本机排序，最多保留 500 条有效记录。超过 90 天的记录不再参与排序，后续记录写入或遗忘操作会清理旧记录；没有保证在第 90 天定时物理删除的后台任务。读取历史本身和失败的打开操作不生成选择记录。直接访问网址和 Google 搜索不写入此学习记录。
+- **设置**：语言、主题、自动收起设置及底栏小动物显隐保存在本地，直到被修改或扩展数据被清除。自定义搜索图标保存所选 Emoji 或在本机缩小后的静态 PNG；扩展不保存原始图片文件或路径，也不上传图片。恢复默认会删除保存的自定义图标。
+- **搜索排序与查询补全记录**：部分成功执行的选择会保存规范化搜索词、与规范化文本不同时的显示写法、目标标识、权重和最后使用时间。目标可能包含完整网页 URL（包括查询参数和片段）、书签 ID 或命令 ID；首页选择也可能形成记录。记录用于本机排序和查询补全，共用最多 2000 条有效记录。超过 90 天的记录不再参与排序或补全，后续记录写入或遗忘操作会清理旧记录；没有保证在第 90 天定时物理删除的后台任务。读取历史本身和失败的打开操作不生成选择记录。成功的直接网址访问和 Google 搜索可能保存所输入的查询词用于补全，不提升搜索结果排名，也不将目的网址保存为排序目标。
 - **自动收起计时**：开启自动收起后，在本地保存适用标签页的完整网址和最后使用时间。关闭自动收起并完成清理后，计时记录清空。
 - **分组恢复记录**：手动或自动收起会保存组名称、颜色、组内完整网址，以及同窗口其他 HTTP／HTTPS 标签页的完整网址，用于浏览器重启后核对组的归属。无法确认的记录可能继续保留，没有固定过期时间；关闭自动收起不保证清除所有待核对恢复记录。
+- **继续搜索**：符合条件的页面搜索成功后，在 Chrome 会话存储中按浏览器窗口保存查询词、所选目标（可能包含完整网址或书签 ID）和时间。每个窗口只提示最近一次符合条件的查询，有效期 10 分钟；过期后忽略，后续写入时清理，浏览器重启会清空会话存储。重置会清除所有继续搜索记录，遗忘匹配的查询／目标会清除相应记录。
 - **会话状态**：面板来源、标签页／窗口／组标识、切换状态及收起撤销信息用于当前运行会话。其中部分保存在内存，部分使用 Chrome 会话存储；关闭面板会清理对应面板会话记录。
 - **网站存储查看内容**：读取的名称、值和属性仅在当前查看面板内存中处理，不写入扩展的持久存储，不发送给开发者。关闭查看面板后，扩展不再保留该面板中的内容副本。你主动复制的内容会进入系统剪贴板；关闭面板不会清空剪贴板，系统或其他剪贴板工具可能继续保留副本。
 
@@ -58,12 +59,12 @@
 
 ## 6. 你的控制方式
 
-- 在设置中使用“重置搜索排序”清除排序学习记录，或使用结果的排序说明入口忘记相关偏好。目前没有关闭排序学习的独立开关，后续符合条件的成功操作仍可能生成新记录。
+- 在设置中使用“重置搜索排序”清除排序／补全共用历史及继续搜索记录，或通过已学习结果上的遗忘入口清除对应偏好和匹配的继续搜索记录。目前没有关闭排序学习的独立开关，后续符合条件的成功操作仍可能生成新记录。
 - 关闭自动收起可停止自动收起并触发相关清理。对待核对的分组恢复记录，可使用“停止恢复这条记录”；该操作移除记录，不关闭页面或删除原生组。
 - 在 Chrome 扩展设置中撤销网站访问权限。重置搜索排序不会撤销权限，也不会清除设置或全部收起恢复记录。
 - 从 Chrome 移除扩展会移除该安装的扩展本地存储。扩展没有额外的服务器副本需要申请删除。卸载不会撤销你已对 Chrome 原生书签、标签页、历史或标签组所做的操作，也不会清空系统剪贴板或删除其他工具保存的副本。
 
-如果你允许扩展在无痕窗口运行，扩展不会在该窗口查询普通浏览历史或记录搜索选择学习；收起功能排除无痕标签页。无痕窗口内主动使用其他功能仍会处理完成操作所需的数据。
+如果你允许扩展在无痕窗口运行，扩展不会在该窗口查询普通浏览历史，不记录搜索选择学习或补全查询，也不提供补全及继续搜索提示；收起功能排除无痕标签页。无痕窗口内主动使用其他功能仍会处理完成操作所需的数据。
 
 ## 7. 联系与政策更新
 

diff --git a/CHANGELOG.md b/CHANGELOG.md
@@ -2,6 +2,27 @@
 
 User-visible changes are grouped by release. Git tags use `v<version>`; extension manifests and store packages use `<version>`. GitHub release dates do not imply Chrome Web Store approval. See the [release guide](docs/STORE-LISTING.md#5-本地打包与发布检查清单).
 
+## [1.0.0] - Unreleased
+
+Feature-frozen release candidate prepared on 2026-10-24. Not submitted to the Chrome Web Store; the date will be finalized on publication. / 2026-10-24 冻结功能并准备发布候选；尚未提交 Chrome Web Store，正式发布时再确定日期。
+
+### Added / 新增
+
+- Find Chinese titles and commands with full pinyin, initials, or mixed Chinese/English queries. History supplements literal search with pinyin matches from the latest 1,000 pages in the selected time range. / 支持中文全拼、首字母和中英文混合检索；历史在字面搜索之外，补充所选时间范围最近 1,000 个页面的拼音匹配。
+- Complete queries from successful local searches, and continue the latest qualifying page search in the same window within 10 minutes. Both offer keyboard and footer-button entry points. / 根据本机成功搜索补全查询，并可在同窗口 10 分钟内继续最近一次符合条件的页面搜索；均提供键盘与底栏按钮入口。
+- Customize the search icon with an Emoji or a local image, with preview, explicit save, and restore-default controls. / 使用 Emoji 或本地图片自定义搜索图标，支持预览、保存与恢复默认。
+
+### Changed / 改进
+
+- Group settings into Appearance, Shortcuts, Experimental, and Help, with search across categories and consistent return navigation that preserves input and drafts. / 设置按外观、快捷键、实验室与帮助分类，支持跨分类搜索，返回时保留输入上下文和草稿。
+- Unify secondary-page navigation, keyboard focus, footer actions, and feedback across the webpage overlay and standalone window. Footer hints can be shown or hidden through the pet control. / 统一网页浮层与独立窗口的二级导航、键盘焦点、底栏操作与反馈，可通过小动物控件显示或隐藏操作提示。
+- Keep up to 2,000 local search records for ranking and completion, with reset and forget controls. / 本地排序与补全共用最多 2,000 条搜索记录，保留重置与遗忘入口。
+
+### Fixed / 修复
+
+- Preserve tab order across automatic tucking batches and improve recovery after browser restarts, partial failures, and manual group changes. / 保留自动收起跨批次的标签顺序，完善浏览器重启、部分失败与手动分组变更后的恢复处理。
+- Refine narrow-window layout, menu focus, search hints, and transparent panel backdrops. / 修正窄窗口布局、菜单焦点、搜索提示与面板透明背景。
+
 ## [0.2.1] - 2026-10-22
 
 ### Fixed / 修复

diff --git a/docs/store/README.md b/docs/store/README.md
@@ -2,6 +2,8 @@
 
 [整套预览](contact-sheet.png) · [商店文案](../STORE-LISTING.md) · [尺寸与 SHA-256 清单](assets.json) · [采集记录](capture.json)
 
+本组素材已从 1.0.0 候选构建重新采集，并核对尺寸、哈希和画面；实际版本与采集环境见 `capture.json`，文件清单见 `assets.json`。本次仅准备本地素材，未上传商店。
+
 ## 按语言上传截图
 
 Chrome Web Store 支持按语言分别上传截图；小宣传图与 Marquee 大宣传图不能本地化，所有语言共用英文版。参见[官方本地化说明](https://developer.chrome.com/docs/webstore/cws-dashboard-listing#localize-your-listing)。
@@ -25,10 +27,10 @@ Chrome Web Store 支持按语言分别上传截图；小宣传图与 Marquee 大
 ## 画面来源与展示整理
 
 - 扩展文件从本地 `dist/` 加载到临时独立 Chrome profile。标签页标题、网址、书签、历史和站点图标是本地路由提供的演示数据；不读取个人浏览器资料，也不代表真实网页内容、真实发言或第三方背书。站点图标是脚本绘制的示意图，经 Chrome 原生 `_favicon` 缓存显示。
-- 主搜索、右键菜单和最近标签切换器的面板来自扩展采集。采集前对展示 DOM 做了整理：操作菜单仅保留七项核心操作，切换器移除扩展页面自身的结果。这些画面不能作为完整菜单内容或系统快捷键链路的验收证据。
+- 主搜索、右键菜单和最近标签切换器的面板来自扩展采集。采集前对展示 DOM 做了整理：操作菜单保留实际菜单项及滚动状态，切换器移除扩展页面自身的结果。这些画面不能作为完整菜单内容或系统快捷键链路的验收证据。
 - 外围 macOS Chrome 风格窗口、地址栏与 GitHub 风格网页背景为合成排版，不是完整浏览器窗口的原样截屏。浅色截图配浅色面板，深色截图配深色面板。
 - `440×280` 小宣传图使用放大的搜索卡片示意；`1400×560` 大宣传图组合英文浅色搜索与深色切换器采集图。两者均属于宣传排版。
-- 主要展示统一搜索、最近标签切换和常用标签操作；隐藏收起菜单项不改变产品实际提供的功能与权限披露。
+- 主要展示统一搜索、最近标签切换和常用标签操作；画面中的菜单可滚动，不代表所有操作均在首屏。
 
 ## 重新生成
 
